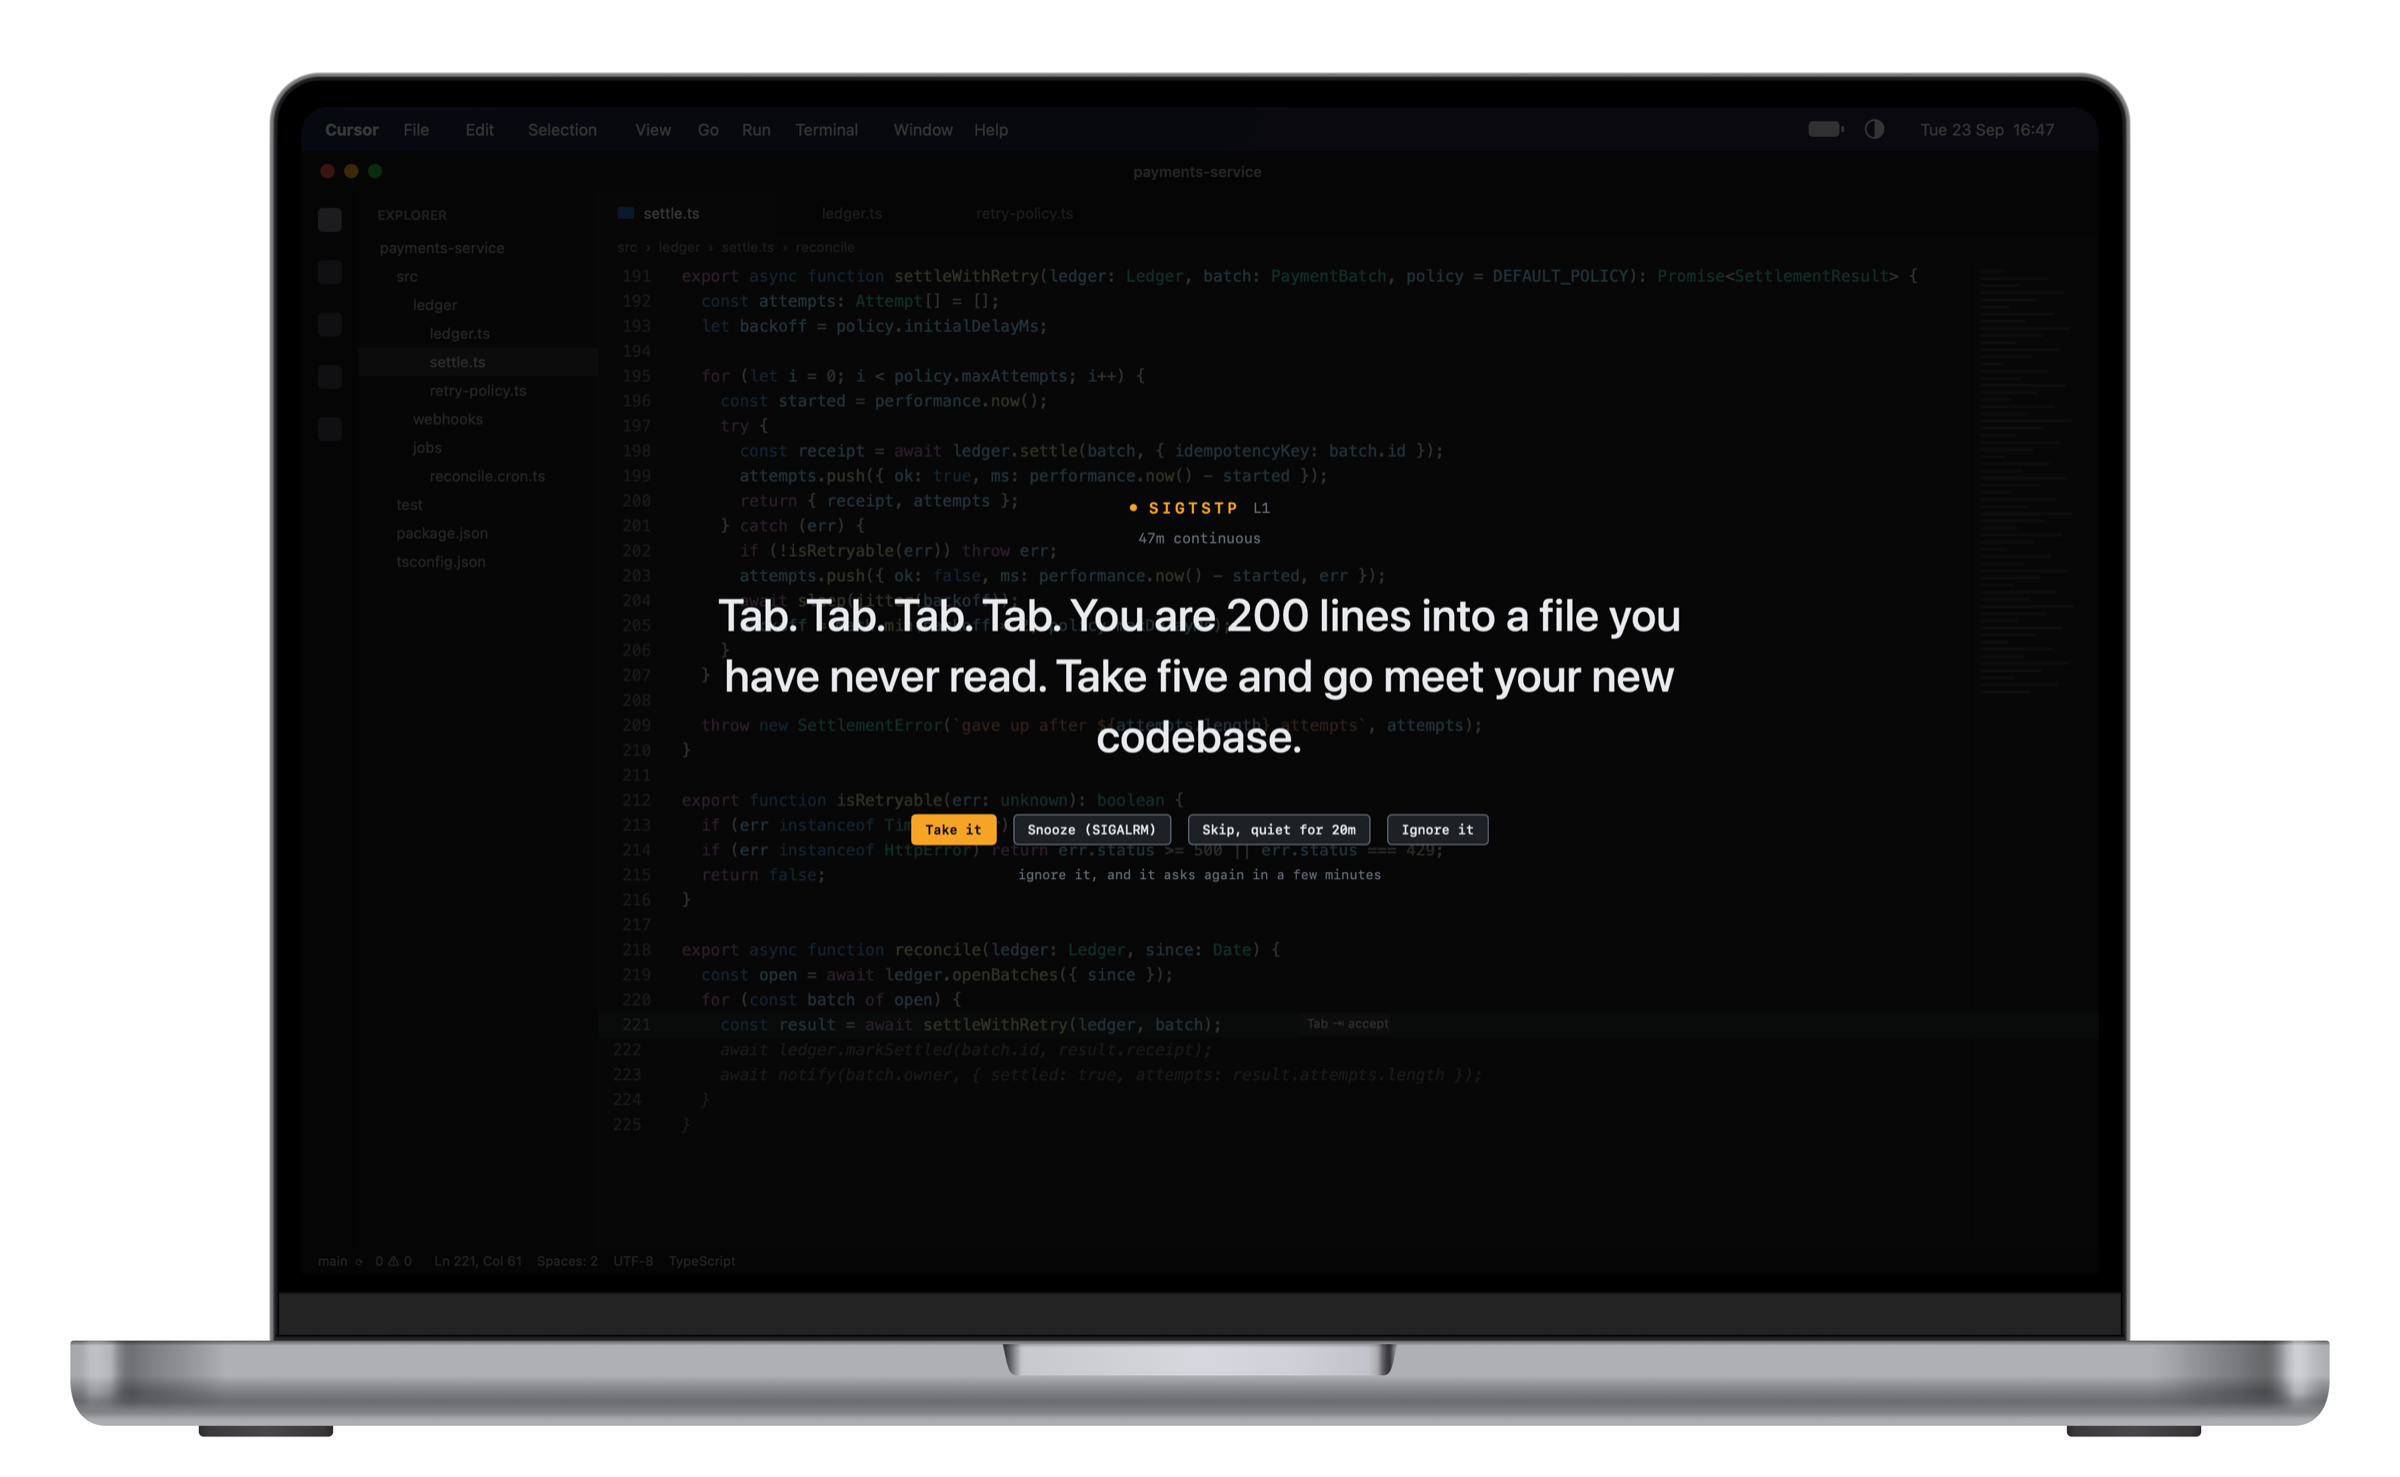
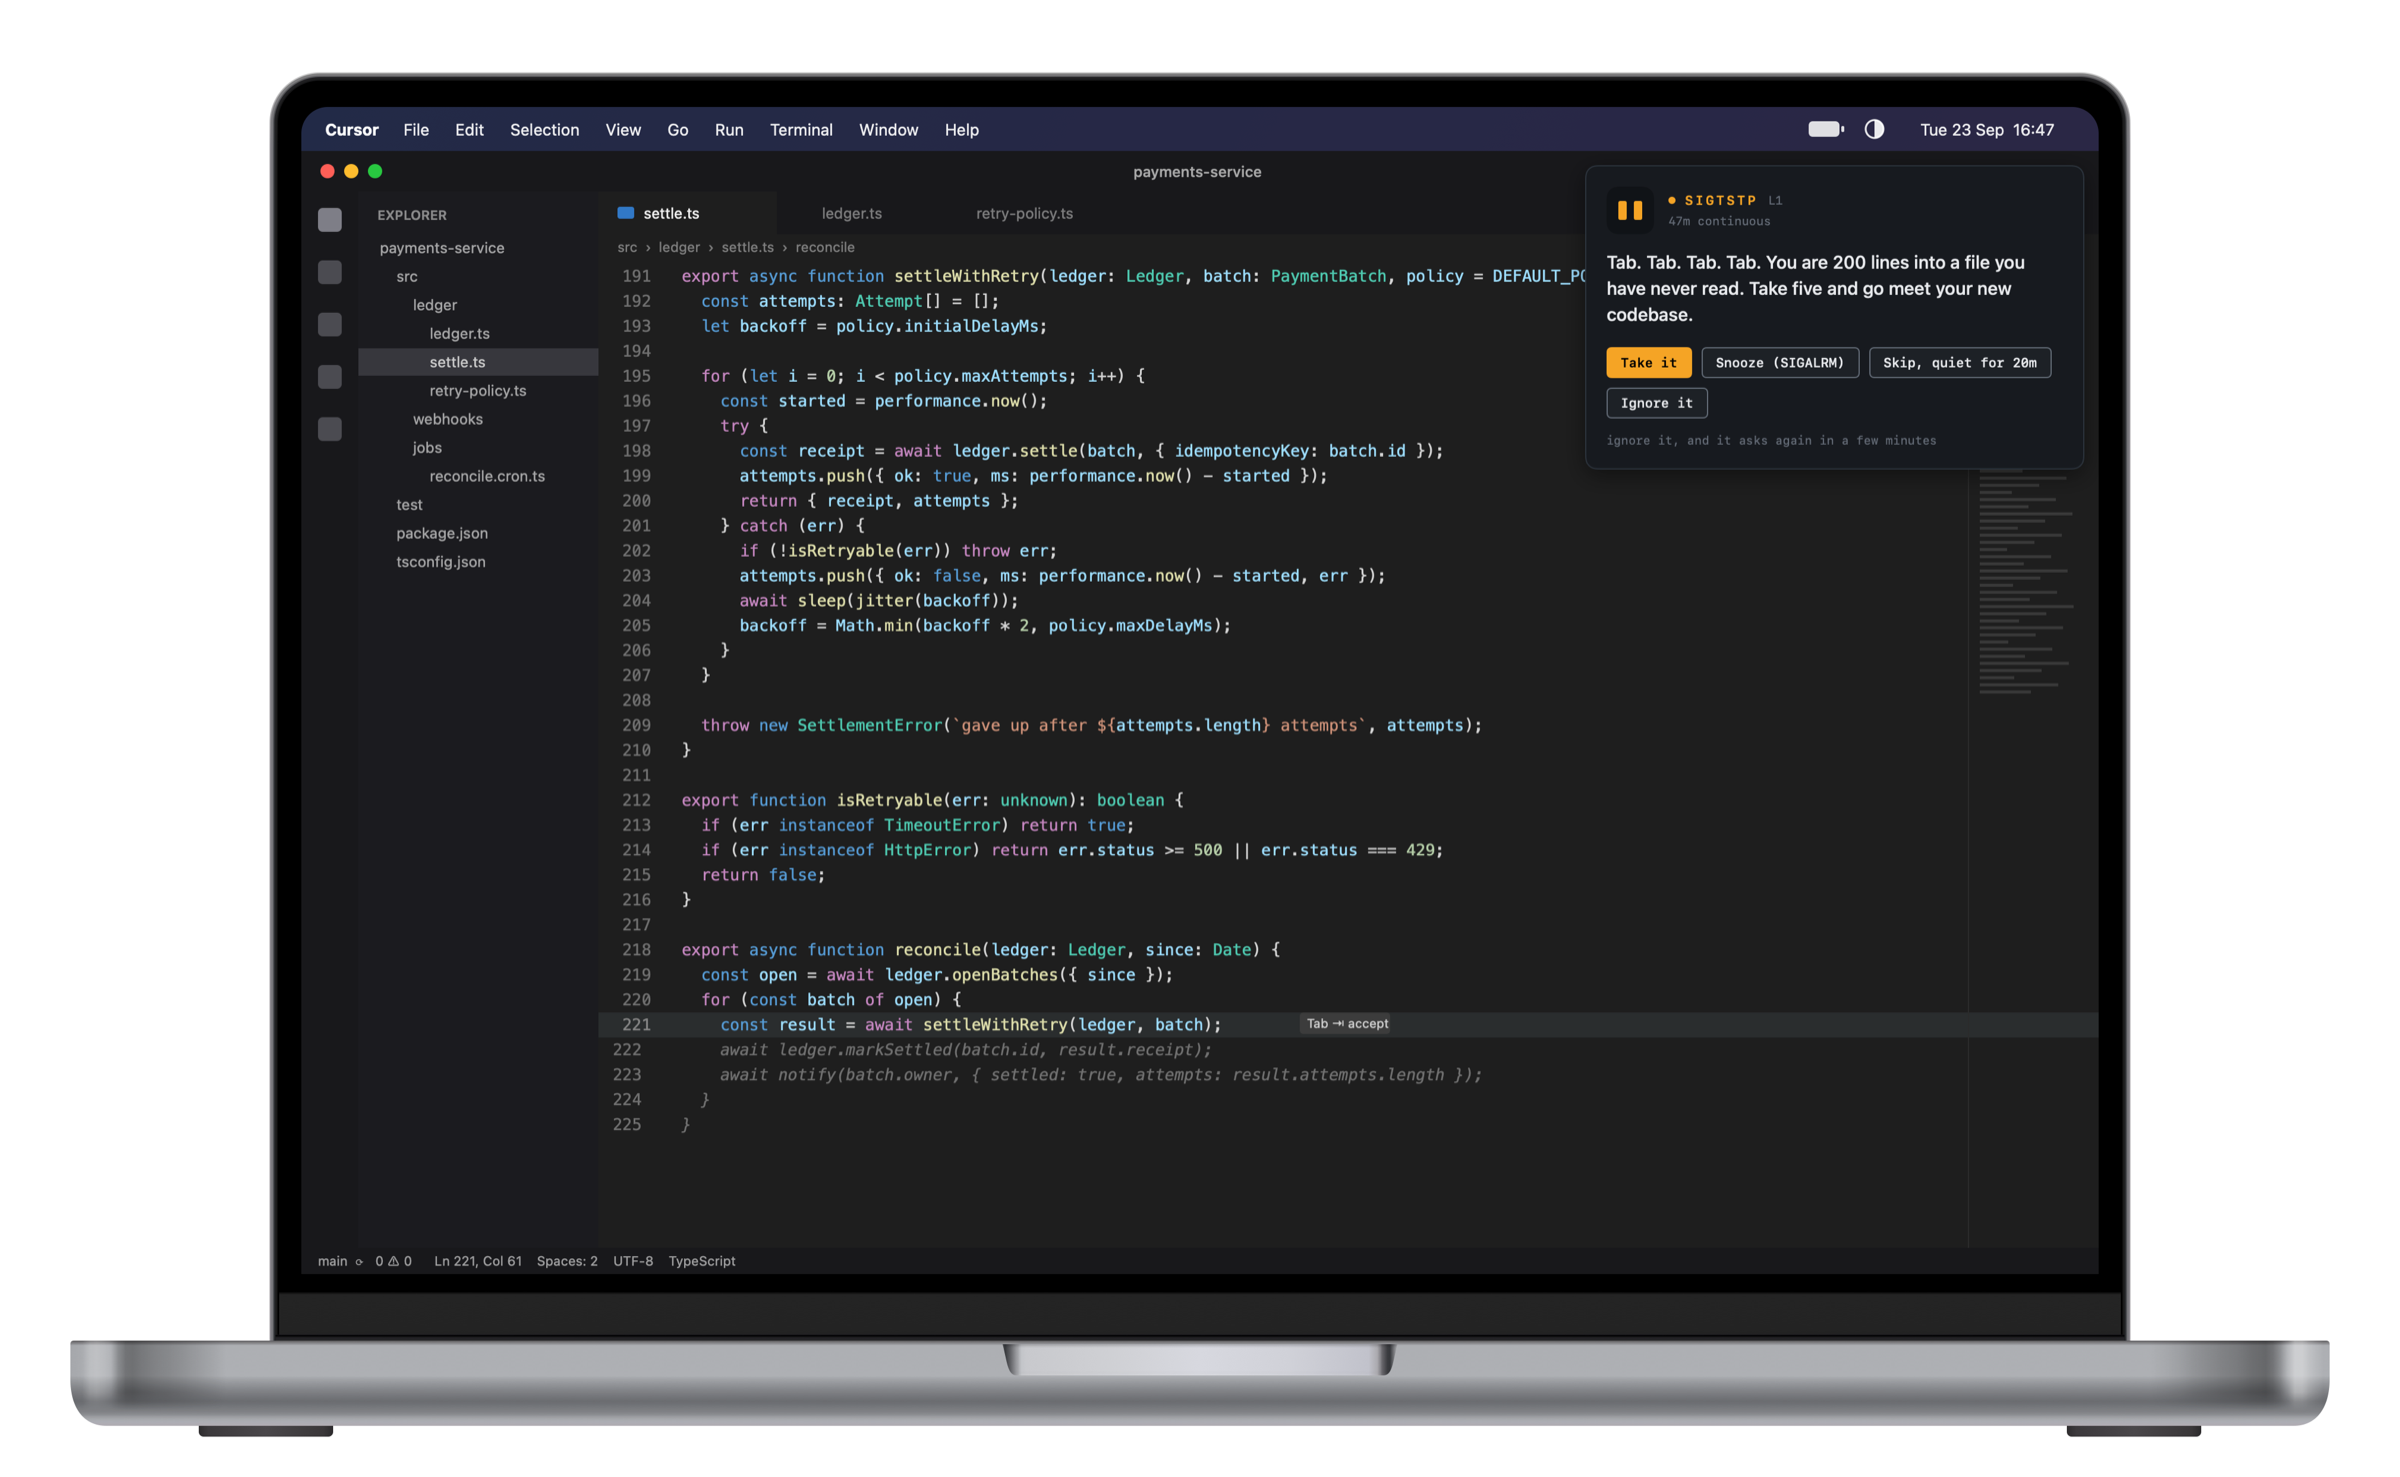
docs: show the first prompt as the corner card it now is

diff --git a/README.md b/README.md
@@ -16,7 +16,7 @@ macOS 14+ · Apple Silicon and Intel · Free and open source · [Website](https:
 [![481 tests](https://img.shields.io/badge/tests-528%20passing-3fb950?style=flat-square)](#build)
 [![GPL-3.0](https://img.shields.io/badge/license-GPL--3.0-blue?style=flat-square)](LICENSE)
 
-<img src="docs/images/prompt.png" width="100%" alt="A sigstop break prompt on a MacBook screen, dimming the editor behind it: SIGTSTP L1, 47m continuous. Tab. Tab. Tab. Tab. You are 200 lines into a file you have never read. Take five and go meet your new codebase. Buttons: Take it, Snooze (SIGALRM), Skip, quiet for 20m, Ignore it.">
+<img src="docs/images/prompt.png" width="100%" alt="A sigstop prompt on a MacBook: a small card in the top-right corner, over a Cursor window, dimming nothing. SIGTSTP L1, 47m continuous. Tab. Tab. Tab. Tab. You are 200 lines into a file you have never read. Take five and go meet your new codebase. Buttons: Take it, Snooze (SIGALRM), Skip, quiet for 20m, Ignore it.">
 
 </div>
 
